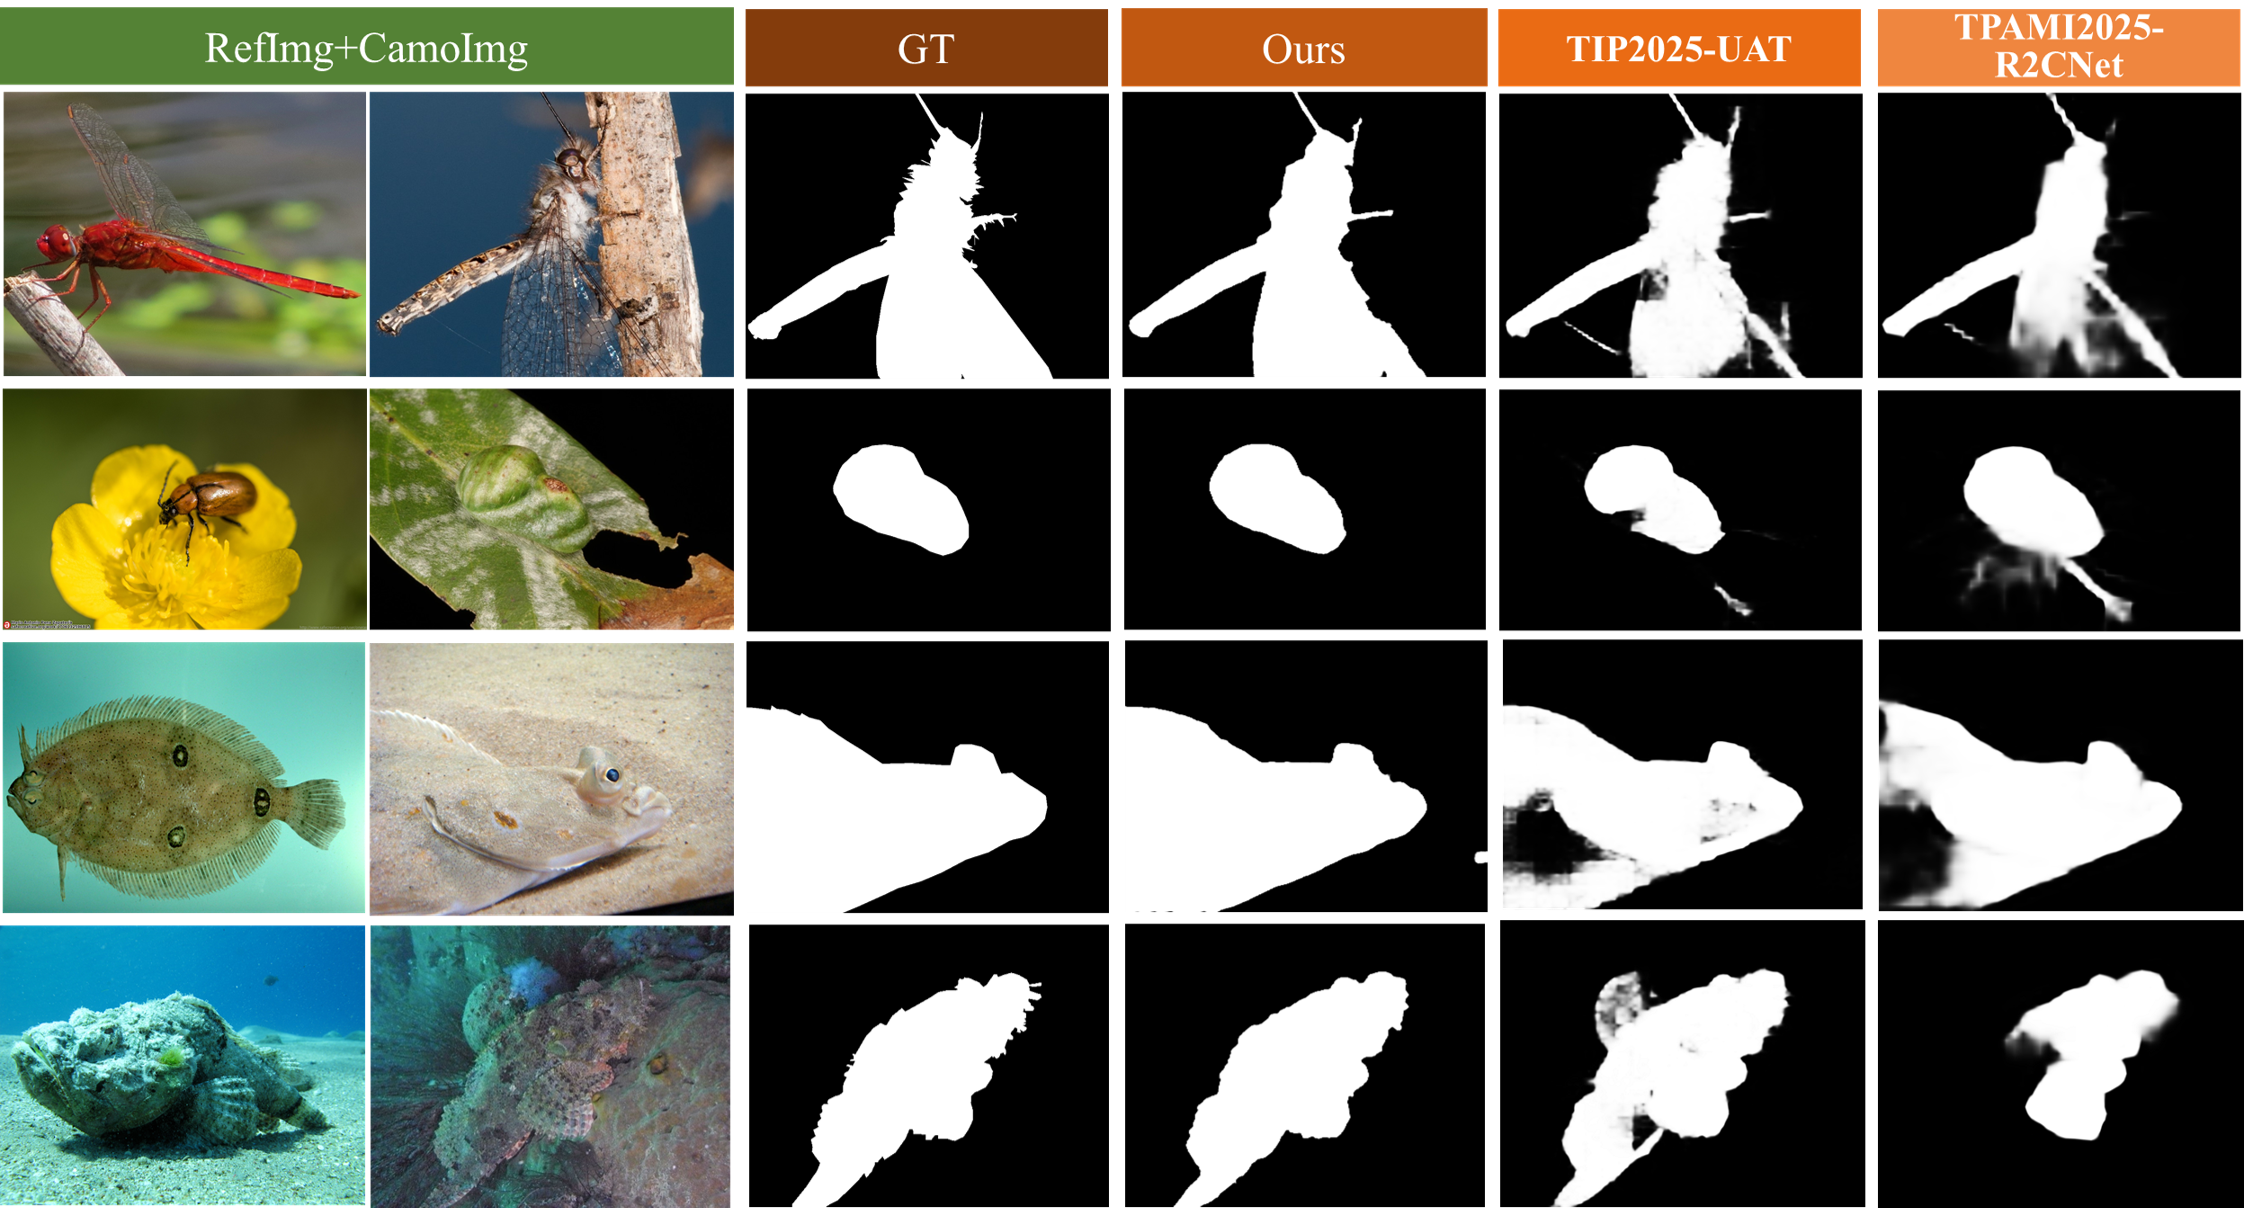
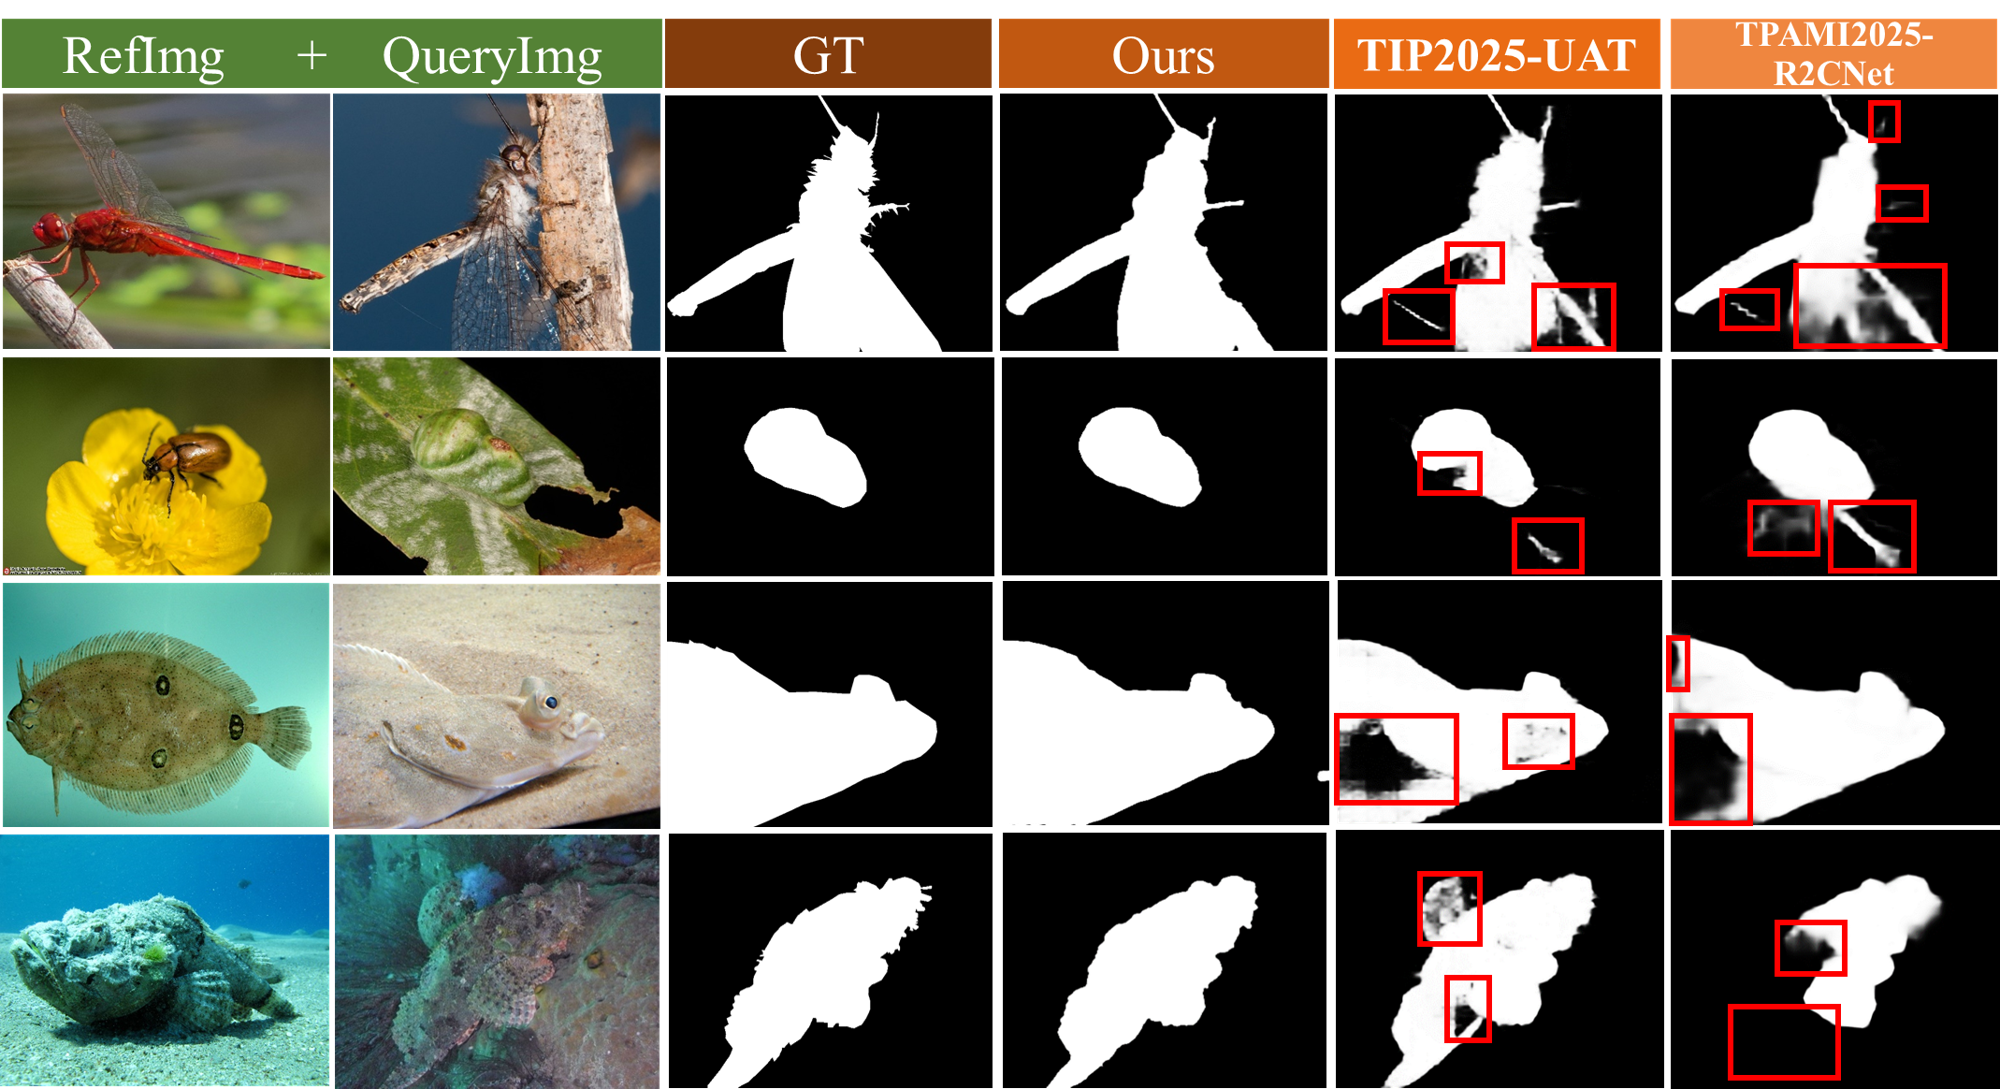
20251230

diff --git a/README.md b/README.md
@@ -1,10 +1,10 @@
 # **EviRCOD: Evidence-Guided Probabilistic Decoding for Referring Camouflaged Object Detection**
 
-**EviRCOD** is an evidence-guided probabilistic framework for Referring Camouflaged Object Detection (Ref-COD). As introduced in the accompanying paper, the framework addresses key limitations in existing Ref-COD methods by integrating three novel components:
+**EviRCOD** is designed to jointly realize four essential capabilities: reference-guided semantic transfer, deformable context aggregation, evidence-based uncertainty quantification, and boundary-aware refinement. These capabilities are instantiated in a unified end-to-end architecture comprising three key components::
 
-1.  **Reference-Guided Deformable Encoder (RGDE)**: Designed to alleviate semantic mismatch and cross-scale inconsistency. It employs adaptive reference-driven modulation and deformable multi-scale aggregation to construct a semantically aligned latent space for target localization.
-2.  **Uncertainty-Aware Evidential Decoder (UAED)**: Aims to reconstruct fine-grained spatial structures while explicitly modeling prediction confidence. It integrates evidential learning into a hierarchical Transformer decoder, jointly modeling aleatoric and epistemic uncertainty for robust confidence propagation.
-3.  **Boundary-Aware Refinement Module (BARM)**: Leverages low-level edge priors and high-level uncertainty maps to selectively refine ambiguous boundaries, achieving precise contour recovery while preserving reliable regions.
+1.  **Reference-Guided Deformable Encoder (RGDE)** couples hierarchical reference modulation with deformablenmulti-scale fusion, injecting semantic priors while adaptively aligning spatially variant tokens across resolutions.
+2.  **Uncertainty-Aware Evidential Decoder (UAED)** incorporates Dirichlet-based evidence theory into hierarchical decoding to jointly model epistemic and aleatoric uncertainty, enabling robust confidence propagation and improved structural consistency.
+3.  **Boundary-Aware Refinement Module (BARM)** integrates fine-grained edge cues with confidence-guided gating to selectively refine ambiguous regions, achieving precise boundary recovery.
 
 The framework is optimized end-to-end via a joint hybrid loss that enforces structural fidelity, boundary sharpness, and well-calibrated uncertainty.
 
